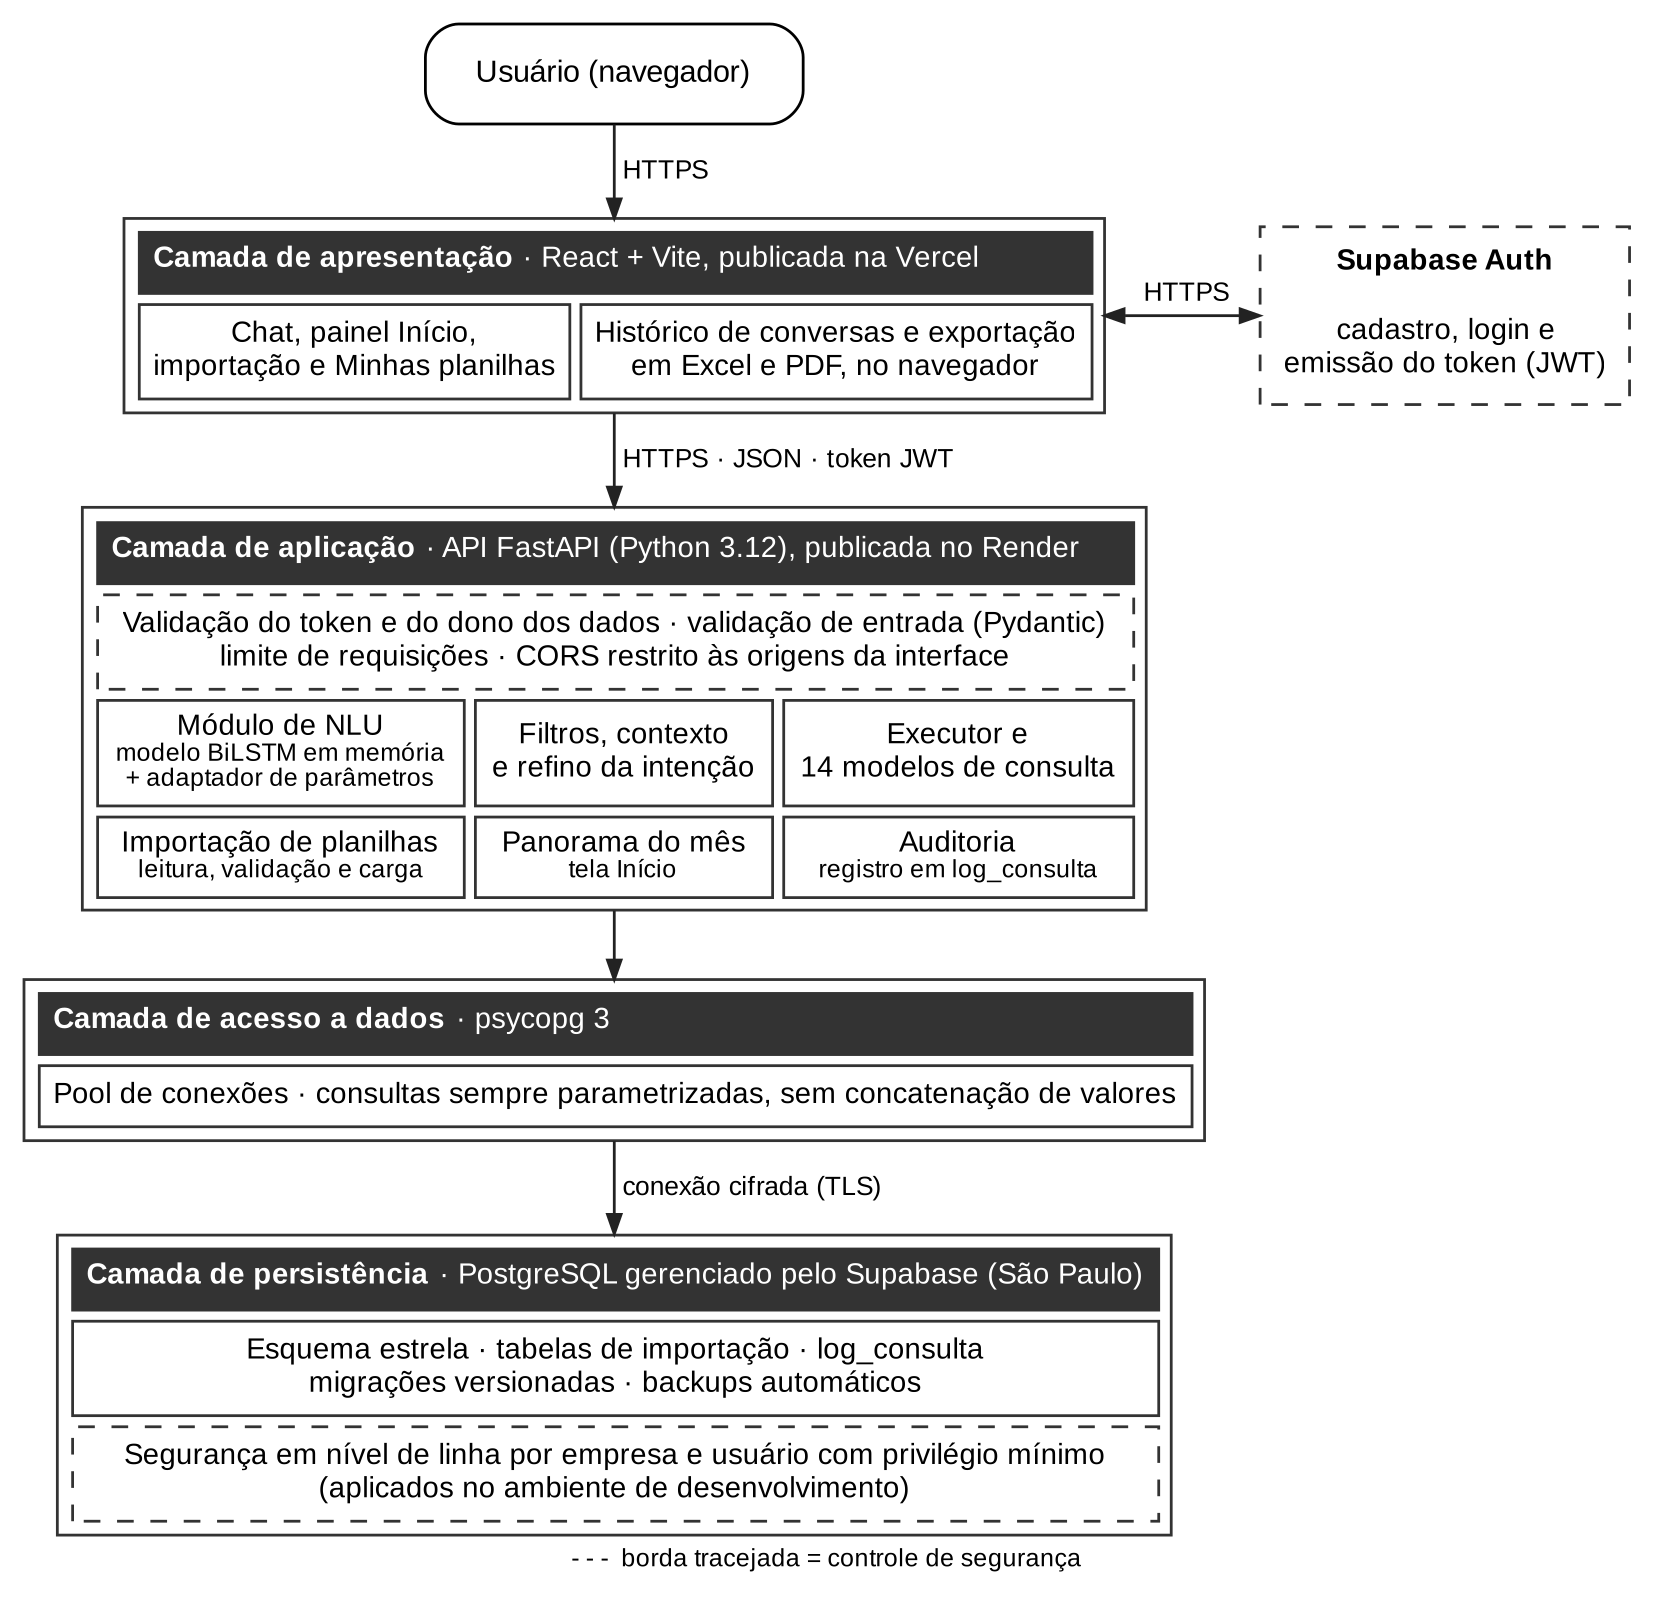
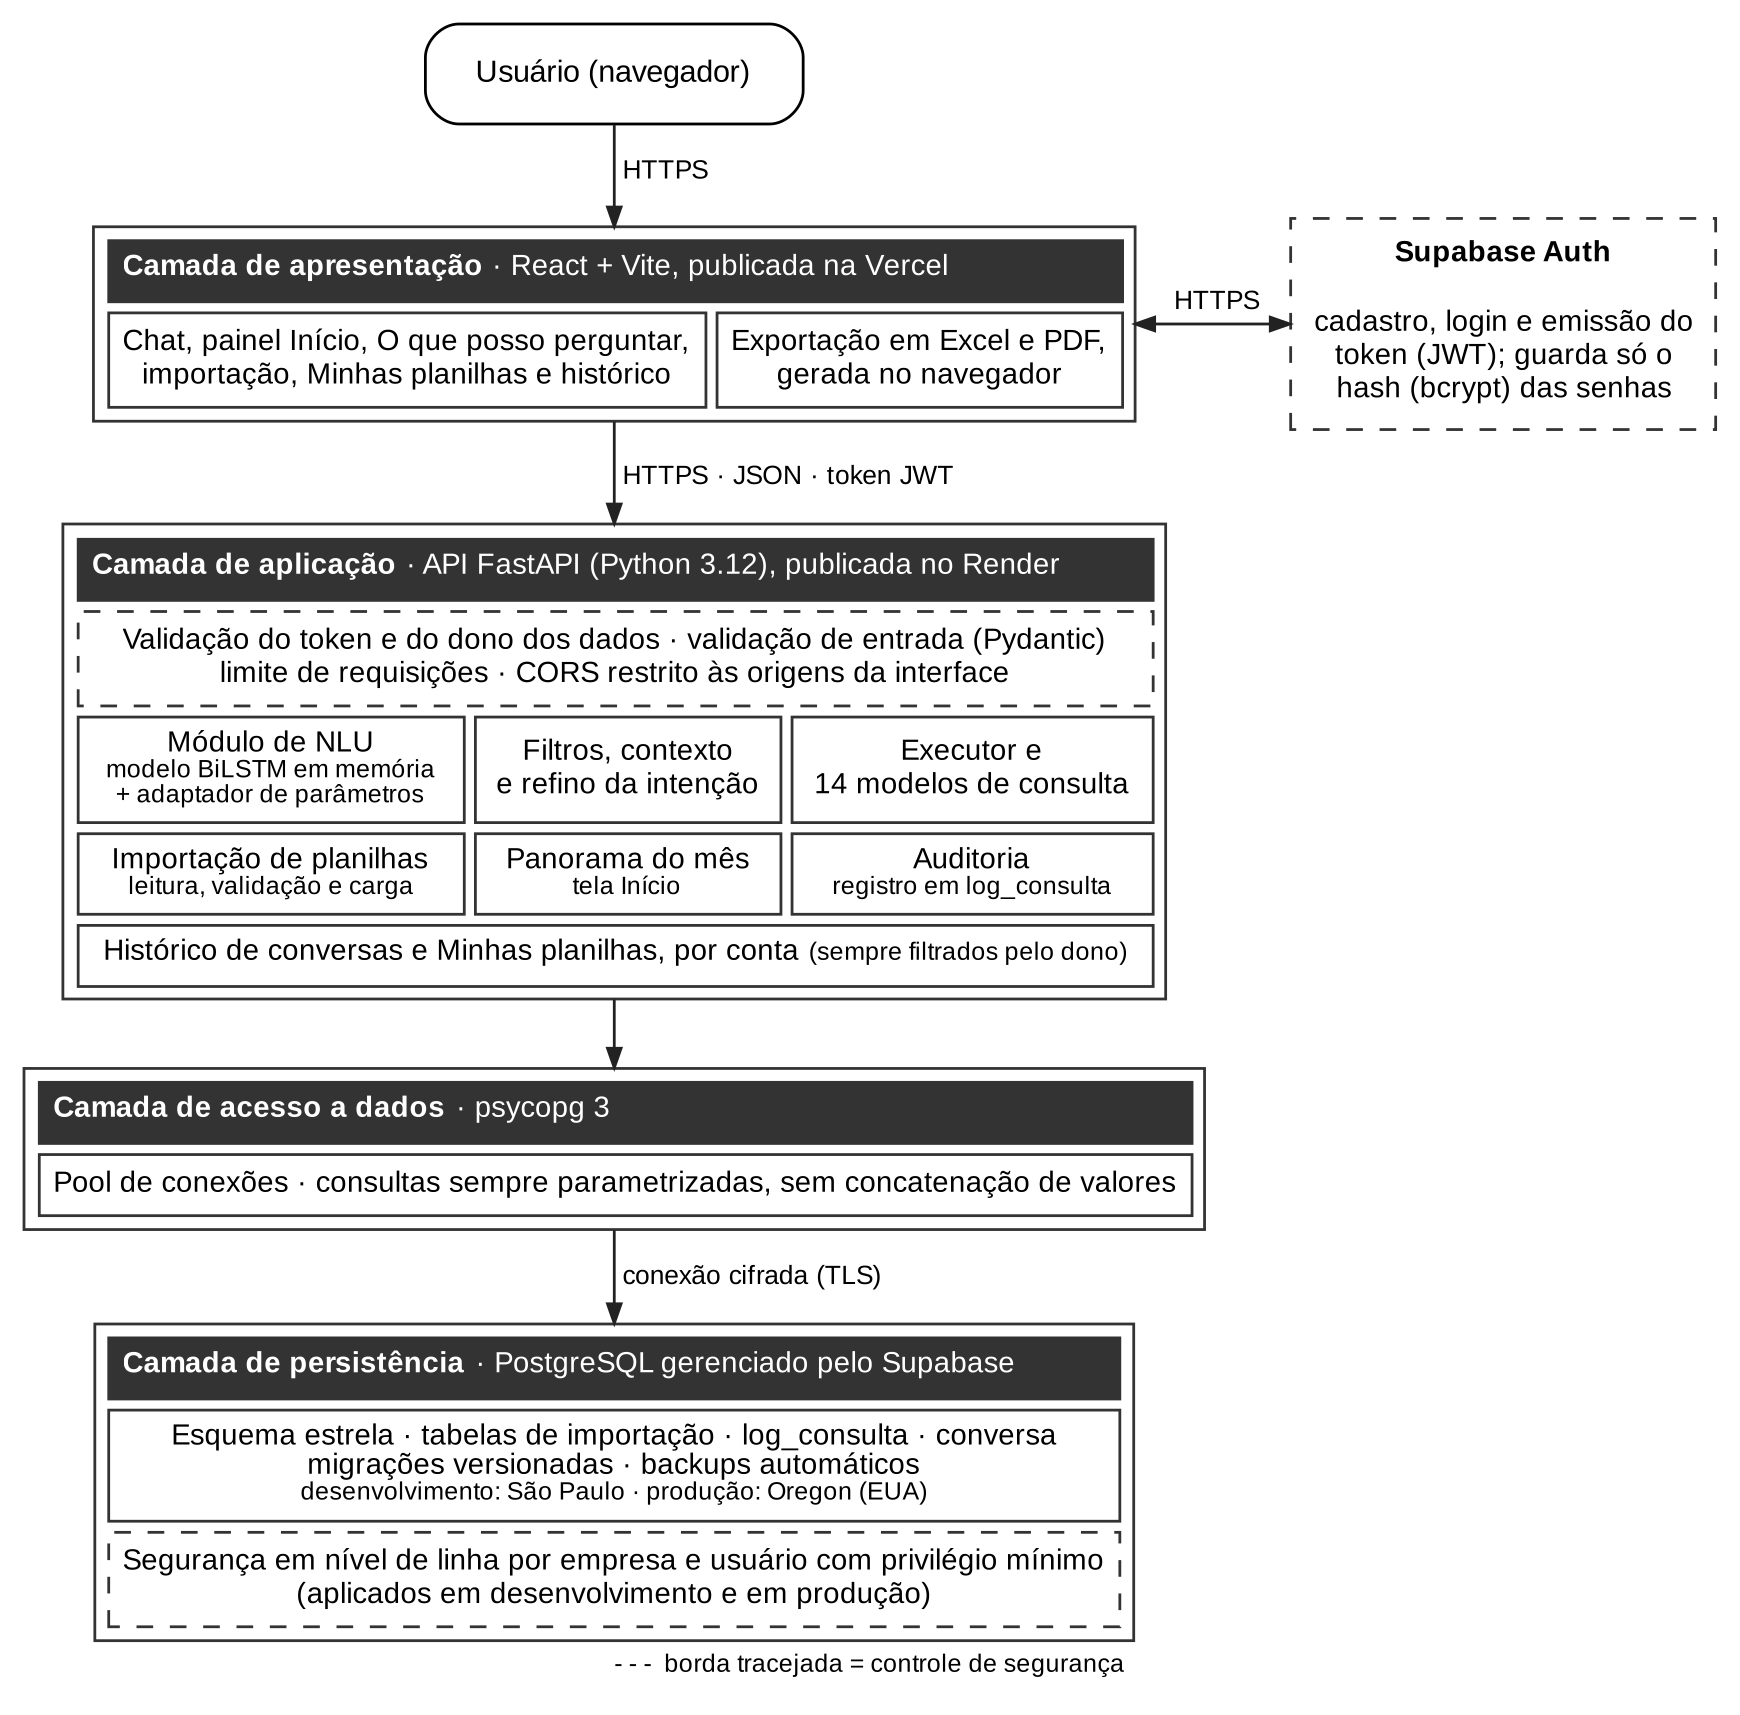
docs(diagramas): histórico de conversas, tela de capacidades e infraestrutura atual
DER com a tabela conversa (migration 008); casos de uso com o histórico
guardado na conta e a tela O que posso perguntar; classes com conversas.py
e as rotas /conversas; arquitetura com RLS e intellix_app em dev e prod,
regiões dos bancos (São Paulo e Oregon) e o hash das senhas no Supabase Auth.

Changed region(s): [[0.0, 0.0, 0.9867, 0.9944]]

diff --git a/docs/diagramas/der.md b/docs/diagramas/der.md
@@ -2,18 +2,27 @@
 
 Gerado por introspecção do banco real (`scripts/gerar_der.py`), não um
 diagrama de software. DDL versionado em `database/migrations/` (001 em diante;
-as migrations 006 e 007 não mudam tabelas, só permissões, RLS e funções, então
-o diagrama continua o mesmo).
+as migrations 006 e 007 não mudam tabelas, só permissões, RLS e funções; a 008
+acrescenta a tabela `conversa`, do histórico de conversas por conta).
 
 - **Grão da fato (`fato_item_venda`): um ITEM de venda** (produto dentro de
   uma venda). `quantidade_vendas` usa `count(distinct venda_id)`; o ticket
   médio = faturamento / vendas distintas (ver sql/templates.py).
-- **`empresa.dono_id`** referencia `auth.users` (gerido pelo Supabase, em
-  outro schema), por isso essa relação não é desenhada aqui. Não há
+- **`empresa.dono_id`** e **`conversa.dono_id`** referenciam `auth.users`
+  (gerido pelo Supabase, em outro schema), por isso essas relações não são
+  desenhadas aqui. Não há
   tabela `usuario` própria do projeto.
 
 ```mermaid
 erDiagram
+  conversa {
+    uuid id PK
+    uuid dono_id
+    text titulo
+    jsonb mensagens
+    timestamptz criada_em
+    timestamptz atualizada_em
+  }
   empresa {
     uuid id PK
     text nome

diff --git a/docs/diagramas/README.md b/docs/diagramas/README.md
@@ -1,7 +1,8 @@
 # Diagramas do TCC
 
 Cada figura do capítulo 4 tem a fonte versionada aqui e é gerada por
-ferramenta, a partir do código e do banco atuais (06/11/2026).
+ferramenta, a partir do código e do banco atuais (06/11/2026, com o histórico de
+conversas por conta da migration 008).
 
 | Figura | Fonte | Imagem | Como gerar |
 |---|---|---|---|
@@ -22,7 +23,12 @@ O que cada diagrama segue no código:
   Assinaturas resumidas, sem a conexão com o banco.
 - **Arquitetura:** só o que está implantado. A segurança em nível de linha e o
   usuário com privilégio mínimo (`006_rls_e_usuario_app.sql`) estão aplicados
-  no ambiente de desenvolvimento (ver `docs/migrations_aplicadas.md`).
+  em desenvolvimento e em produção; os bancos ficam em São Paulo (dev) e
+  Oregon (prod) (ver `docs/migrations_aplicadas.md`). As senhas ficam só no
+  Supabase Auth, como hash.
+- **DER:** inclui a tabela `conversa` (008). `empresa.dono_id` e
+  `conversa.dono_id` apontam para `auth.users`, em outro schema, e por isso
+  essas relações não são desenhadas.
 
 `arquitetura_hexagonal*.drawio` são a versão de outubro de 2026, anterior à
 importação de planilhas e ao login; ficam como histórico.
